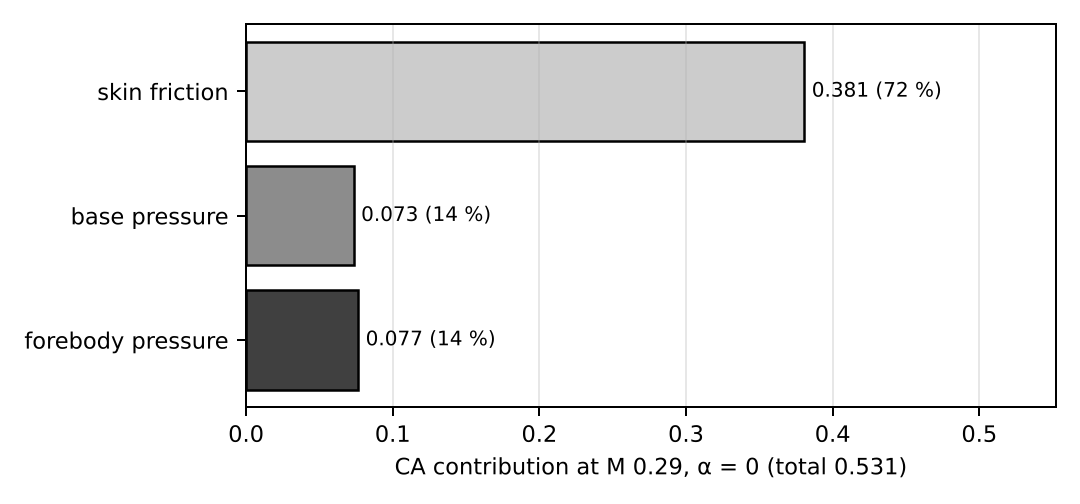
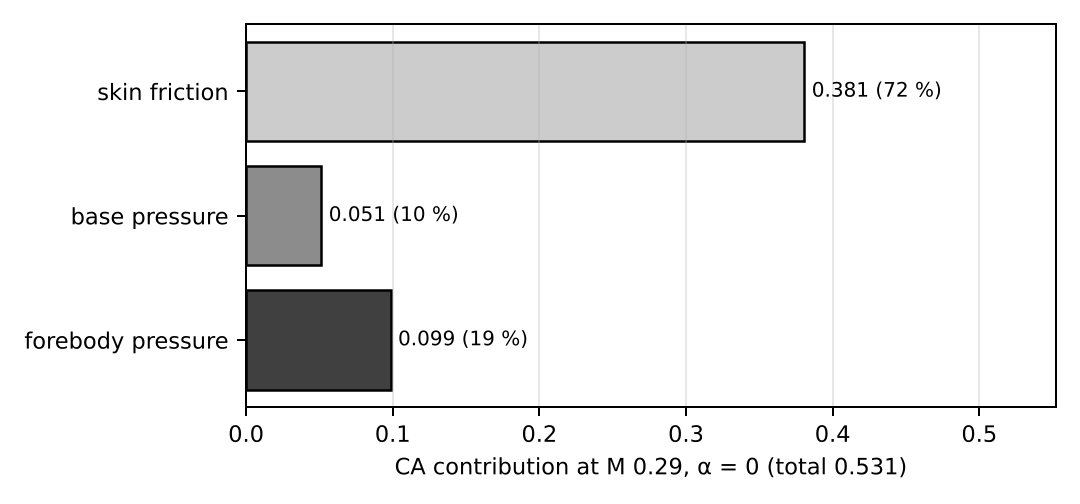
Mach 0.5 CFD; aero builder: incompressible refined drag + base-drag rise, Mach CN/CP increments from compressible runs
Claude-Session: https://claude.ai/code/session_01JbHocCdFPmDsRrA6bRt32a

Changed region(s): [[0.275, 0.3274, 0.4583, 0.5357], [0.3056, 0.5655, 0.4889, 0.8036]]

diff --git a/tools/msp_aero.py b/tools/msp_aero.py
@@ -150,14 +150,30 @@ def main():
     out["areas"] = sp
     d_alpha = (base_ref["CA_pressure"] - a0["CA_pressure"]) if (a0 and base_ref) else 0.0
     rows = []
+    # Pressure drag: refined-mesh, offset-free incompressible value at M 0.29 (forebody + base). Compressible runs use
+    # first-order upwinding and over-predict CA_pressure (0.55 at M 0.5 vs 0.24 at M 0.29), so their CA is not used.
+    # Base drag scaled with the subsonic base-drag rise (0.12 + 0.13 M^2, OpenRocket/Barrowman); forebody constant.
+    # CN / CP vs Mach: compressible runs as increments over the coarse M 0.29 run at the same alpha and mesh.
+    ref_c = raw.get("msp_a4")
+    ca_p_fine = (base_ref["CA_pressure"] - d_alpha) * corr["CA_p"] if base_ref else 0.0
+    base0 = sp["ca_base"] * corr["CA_p"]
+    fore = ca_p_fine - base0
     for m, r in mach_pts:
-        ca_p0 = (r["CA_pressure"] - d_alpha) * corr["CA_p"]
+        base_m = base0 * (0.12 + 0.13 * m * m) / (0.12 + 0.13 * 0.294 ** 2)
         re = m * A_SND * L_BODY / NU
         ca_f = (cf_smooth(re, m) * sp["A_tube"] + max(cf_smooth(re, m), cf_rough(m)) * sp["A_print"]) / A_REF
-        rows.append(dict(mach=m, CA_pressure0=ca_p0, CA_friction=ca_f, CA0=ca_p0 + ca_f,
-                         CNalpha=r["CN_alpha_per_rad"] * corr["CN"], CP_mm=r["CP_from_tip_mm"] + corr["CP_mm"]))
+        if m < 0.3:
+            cna, cpm = r["CN_alpha_per_rad"] * corr["CN"], r["CP_from_tip_mm"] + corr["CP_mm"]
+        else:
+            rr = raw[[k for k in ("msp_m05", "msp_m08") if k.endswith(f"{int(round(m * 10)):02d}")][0]]
+            k_cn = rr["CN"] / ref_c["CN"]
+            d_cp = rr["CP_from_tip_mm"] - ref_c["CP_from_tip_mm"]
+            cna = have["msp_a4_f"]["CN_alpha_per_rad"] * k_cn if "msp_a4_f" in have else r["CN_alpha_per_rad"]
+            cpm = (have["msp_a4_f"]["CP_from_tip_mm"] if "msp_a4_f" in have else r["CP_from_tip_mm"]) + d_cp
+        rows.append(dict(mach=m, CA_forebody=fore, CA_base=base_m, CA_pressure0=fore + base_m, CA_friction=ca_f,
+                         CA0=fore + base_m + ca_f, CNalpha=cna, CP_mm=cpm))
     out["mach"] = rows
-    out["ca_base_M029"] = sp["ca_base"]
+    out["ca_base_M029"] = base0
     if rows:
         fig, ax = plt.subplots(1, 3, figsize=(10, 3))
         mm = [r["mach"] for r in rows]
@@ -173,7 +189,7 @@ def main():
         fig.tight_layout(); fig.savefig(FIG / "ca_cn_cp_vs_mach.png", dpi=180); plt.close(fig)
         r0 = rows[0]
         fig, ax = plt.subplots(figsize=(6, 2.8))
-        parts = {"forebody pressure": r0["CA_pressure0"] - sp["ca_base"], "base pressure": sp["ca_base"],
+        parts = {"forebody pressure": r0["CA_forebody"], "base pressure": r0["CA_base"],
                  "skin friction": r0["CA_friction"]}
         ax.barh(list(parts), list(parts.values()), color=["0.25", "0.55", "0.8"], edgecolor="k")
         for i, v in enumerate(parts.values()):
